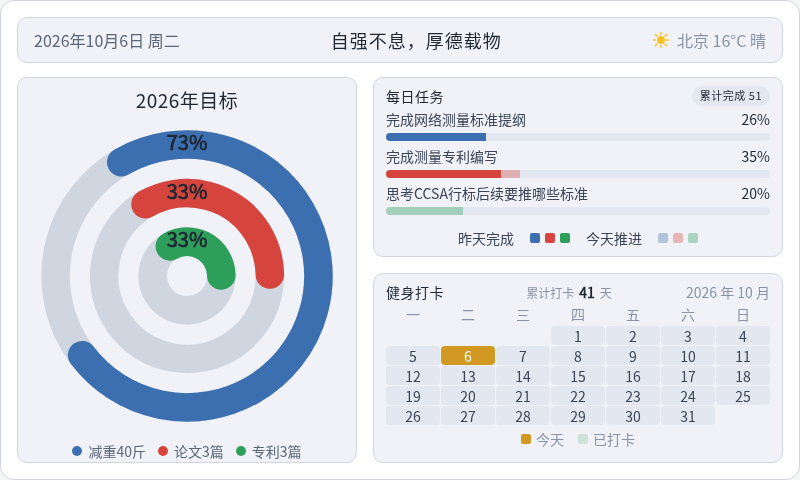
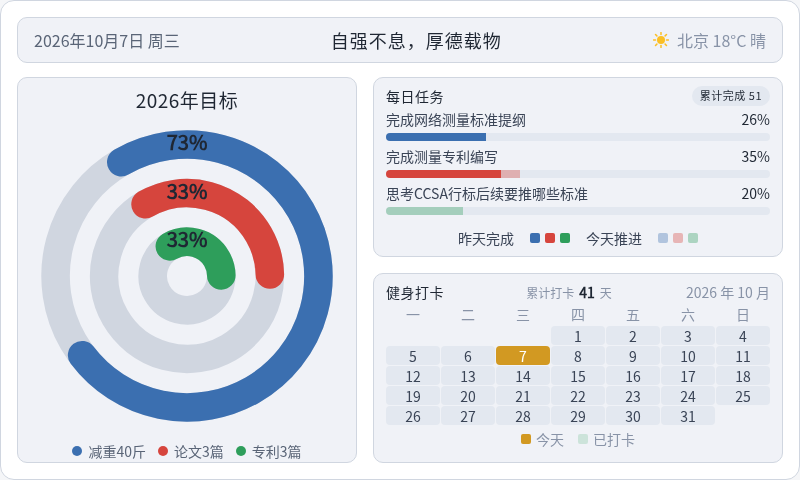
chore: 每日看板刷新 2026-10-07

Changed region(s): [[0.5312, 0.7188, 0.6875, 0.7812], [0.1875, 0.0625, 0.2188, 0.0938]]

diff --git a/output/dashboard/dashboard.html b/output/dashboard/dashboard.html
@@ -185,11 +185,11 @@
 <body>
   <div class="dash">
     <div class="topbar">
-      <div class="tb-date" id="tbDate">2026年10月6日 周二</div>
+      <div class="tb-date" id="tbDate">2026年10月7日 周三</div>
       <div class="tb-slogan">自强不息，厚德载物</div>
       <div class="tb-weather">
         <svg width="16" height="16" viewBox="0 0 16 16" aria-hidden="true"><circle cx="8" cy="8" r="4" fill="#fbbf24"/><g stroke="#fbbf24" stroke-width="1.5" stroke-linecap="round"><line x1="8" y1="0.5" x2="8" y2="2.5"/><line x1="8" y1="13.5" x2="8" y2="15.5"/><line x1="0.5" y1="8" x2="2.5" y2="8"/><line x1="13.5" y1="8" x2="15.5" y2="8"/><line x1="2.5" y1="2.5" x2="3.9" y2="3.9"/><line x1="12.1" y1="12.1" x2="13.5" y2="13.5"/><line x1="13.5" y1="2.5" x2="12.1" y2="3.9"/><line x1="3.9" y1="12.1" x2="2.5" y2="13.5"/></g></svg>
-        <span>北京 16°C 晴</span>
+        <span>北京 18°C 晴</span>
       </div>
     </div>
     <div class="content">
@@ -248,7 +248,7 @@
           <span class="cal-date">2026 年 10 月</span>
         </div>
         <div class="cal-grid wk"><span>一</span><span>二</span><span>三</span><span>四</span><span>五</span><span>六</span><span>日</span></div>
-        <div class="cal-grid"><span class="cell empty"></span><span class="cell empty"></span><span class="cell empty"></span><span class="cell" style="background:#e3e8f0;color:#3a4456">1</span><span class="cell" style="background:#e3e8f0;color:#3a4456">2</span><span class="cell" style="background:#e3e8f0;color:#3a4456">3</span><span class="cell" style="background:#e3e8f0;color:#3a4456">4</span><span class="cell" style="background:#e3e8f0;color:#3a4456">5</span><span class="cell today" style="background:#d29922;color:#ffffff">6</span><span class="cell" style="background:#e3e8f0;color:#3a4456">7</span><span class="cell" style="background:#e3e8f0;color:#3a4456">8</span><span class="cell" style="background:#e3e8f0;color:#3a4456">9</span><span class="cell" style="background:#e3e8f0;color:#3a4456">10</span><span class="cell" style="background:#e3e8f0;color:#3a4456">11</span><span class="cell" style="background:#e3e8f0;color:#3a4456">12</span><span class="cell" style="background:#e3e8f0;color:#3a4456">13</span><span class="cell" style="background:#e3e8f0;color:#3a4456">14</span><span class="cell" style="background:#e3e8f0;color:#3a4456">15</span><span class="cell" style="background:#e3e8f0;color:#3a4456">16</span><span class="cell" style="background:#e3e8f0;color:#3a4456">17</span><span class="cell" style="background:#e3e8f0;color:#3a4456">18</span><span class="cell" style="background:#e3e8f0;color:#3a4456">19</span><span class="cell" style="background:#e3e8f0;color:#3a4456">20</span><span class="cell" style="background:#e3e8f0;color:#3a4456">21</span><span class="cell" style="background:#e3e8f0;color:#3a4456">22</span><span class="cell" style="background:#e3e8f0;color:#3a4456">23</span><span class="cell" style="background:#e3e8f0;color:#3a4456">24</span><span class="cell" style="background:#e3e8f0;color:#3a4456">25</span><span class="cell" style="background:#e3e8f0;color:#3a4456">26</span><span class="cell" style="background:#e3e8f0;color:#3a4456">27</span><span class="cell" style="background:#e3e8f0;color:#3a4456">28</span><span class="cell" style="background:#e3e8f0;color:#3a4456">29</span><span class="cell" style="background:#e3e8f0;color:#3a4456">30</span><span class="cell" style="background:#e3e8f0;color:#3a4456">31</span></div>
+        <div class="cal-grid"><span class="cell empty"></span><span class="cell empty"></span><span class="cell empty"></span><span class="cell" style="background:#e3e8f0;color:#3a4456">1</span><span class="cell" style="background:#e3e8f0;color:#3a4456">2</span><span class="cell" style="background:#e3e8f0;color:#3a4456">3</span><span class="cell" style="background:#e3e8f0;color:#3a4456">4</span><span class="cell" style="background:#e3e8f0;color:#3a4456">5</span><span class="cell" style="background:#e3e8f0;color:#3a4456">6</span><span class="cell today" style="background:#d29922;color:#ffffff">7</span><span class="cell" style="background:#e3e8f0;color:#3a4456">8</span><span class="cell" style="background:#e3e8f0;color:#3a4456">9</span><span class="cell" style="background:#e3e8f0;color:#3a4456">10</span><span class="cell" style="background:#e3e8f0;color:#3a4456">11</span><span class="cell" style="background:#e3e8f0;color:#3a4456">12</span><span class="cell" style="background:#e3e8f0;color:#3a4456">13</span><span class="cell" style="background:#e3e8f0;color:#3a4456">14</span><span class="cell" style="background:#e3e8f0;color:#3a4456">15</span><span class="cell" style="background:#e3e8f0;color:#3a4456">16</span><span class="cell" style="background:#e3e8f0;color:#3a4456">17</span><span class="cell" style="background:#e3e8f0;color:#3a4456">18</span><span class="cell" style="background:#e3e8f0;color:#3a4456">19</span><span class="cell" style="background:#e3e8f0;color:#3a4456">20</span><span class="cell" style="background:#e3e8f0;color:#3a4456">21</span><span class="cell" style="background:#e3e8f0;color:#3a4456">22</span><span class="cell" style="background:#e3e8f0;color:#3a4456">23</span><span class="cell" style="background:#e3e8f0;color:#3a4456">24</span><span class="cell" style="background:#e3e8f0;color:#3a4456">25</span><span class="cell" style="background:#e3e8f0;color:#3a4456">26</span><span class="cell" style="background:#e3e8f0;color:#3a4456">27</span><span class="cell" style="background:#e3e8f0;color:#3a4456">28</span><span class="cell" style="background:#e3e8f0;color:#3a4456">29</span><span class="cell" style="background:#e3e8f0;color:#3a4456">30</span><span class="cell" style="background:#e3e8f0;color:#3a4456">31</span></div>
         <div class="cal-legend">
           <span style="color:#8893a7"><i class="sw" style="background:#d29922"></i>今天</span>
           <span style="color:#8893a7"><i class="sw" style="background:rgba(46,158,91,0.18)"></i>已打卡</span>
